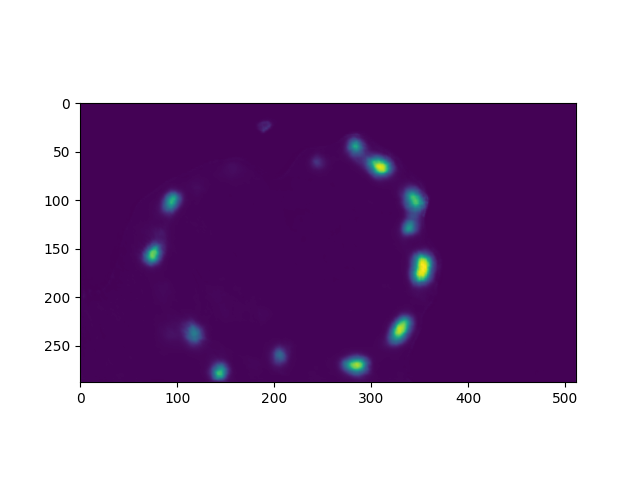
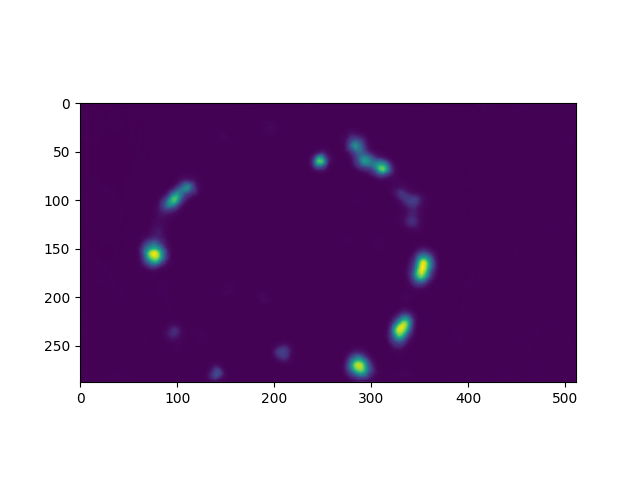
update cut method

diff --git a/predict.py b/predict.py
@@ -51,6 +51,45 @@ def OSTU(predict):
     selem = disk(radius)
     threshold_global_otsu = threshold_otsu(predict)
     image_out = predict >= threshold_global_otsu
+    # 开运算  圆形kernel
+    kernel = skimage.morphology.disk(2)
+    image_out =skimage.morphology.opening(image_out, kernel)
+    # generate centre of mass
+    label_img = measure.label(image_out, connectivity=2)
+    props = measure.regionprops(label_img)
+    # generate prediction points
+    points = []
+    for prop in props:
+        # 这里注意x，y别搞反了,输入是 288x512,第零维度是y,第一维是x，
+        point = {}
+        point["y"] = prop.centroid[0]
+        point["x"] = prop.centroid[1]
+        points.append(point)
+
+    return points
+
+
+def check_out(image_out,points_big):
+    for point_big in points_big:
+        x = int(point_big["x"])
+        y = int(point_big["y"])
+        flag = 0
+        for i in range(0,288):
+            if image_out[i,x] == True and image_out[i-1,x] == False:
+                image_out[i,x] = False
+                flag =1
+            if i<287 and image_out[i,x] == False and image_out[i+1,x]== False and flag==1:
+                break
+            elif i ==287:
+                image_out[i,x] = False
+    return image_out
+
+
+def OSTU_test(predict):
+    radius = 2
+    selem = disk(radius)
+    threshold_global_otsu = threshold_otsu(predict)
+    image_out = predict >= threshold_global_otsu
     ## 画图
     # plt.imshow(image_out)
     # plt.savefig('./pic/image_out.png')
@@ -60,6 +99,7 @@ def OSTU(predict):
     # 圆形kernel
     kernel = skimage.morphology.disk(2)
     image_out =skimage.morphology.opening(image_out, kernel)
+    # print(image_out)
     # 画图
     # plt.imshow(image_out)
     # plt.savefig('./pic/open.png')
@@ -70,21 +110,53 @@ def OSTU(predict):
     props = measure.regionprops(label_img)
     # generate prediction points
     points = []
+    areas = []
     for prop in props:
         # 这里注意x，y别搞反了,输入是 288x512,第零维度是y,第一维是x，
         point = {}
-        point["x"] = prop.centroid[1]
         point["y"] = prop.centroid[0]
+        point["x"] = prop.centroid[1]
         points.append(point)
-
+        areas.append(prop.area)
+    print("before predict number",len(points))
     # for point in points:
     #     x = int(point["x"])
     #     y = int(point["y"])
     #     image_out[y,x] = 0
     # plt.imshow(image_out)
     # plt.savefig('./pic/open_points.png')
+    # return points
 
-    return points
+    points_big = []
+    area_average = int(sum(areas)/len(areas))
+    for i in range(len(areas)):
+        if areas[i] > area_average:
+            points_big.append(points[i])
+    if len(points_big):
+        img_out = check_out(image_out,points_big)
+        # print(points_big)
+        # print("continue")
+        label_img = measure.label(img_out, connectivity=2)
+        props = measure.regionprops(label_img)
+        points = []
+        for prop in props:
+        # 这里注意x，y别搞反了,输入是 288x512,第零维度是y,第一维是x，
+            point = {}
+            point["y"] = prop.centroid[0]
+            point["x"] = prop.centroid[1]
+            points.append(point)
+        # print(len(points_big))
+        print("after predict number",len(points))
+        for point in points:
+            x = int(point["x"])
+            y = int(point["y"])
+            image_out[y,x] = 0
+        plt.imshow(image_out)
+        plt.savefig('./pic/open_points.png')
+        return points
+    else:
+        return points
+
 
 def predict(model_path, test_loader):
 
@@ -119,18 +191,19 @@ def predict(model_path, test_loader):
         plt.show()
         # print(imgs_path)
         # print(logit)
-        # points = OSTU(logit)
+        points = OSTU(logit)
+        points = OSTU_test(logit)
         # 生成json文件
         # to_json(points,img_path[0])
         # for i in range(len(imgs_path)):
         #     predict = im_convert(logits[i], False)
-        #     to_OSTU(predict,imgs_path[i])
+        #     OSTU(predict,imgs_path[i])
 
 def main():
     batch_size = 1
     num_workers = 1
     test_path = './Traindata/'
-    model_path = './model/nor_unet.pt'
+    model_path = './model/new_Unet.pt'
     test_dataset = Medical_Data(test_path, data_mode='simulator', set_mode='test')
     test_loader = torch.utils.data.DataLoader(
             dataset=test_dataset,

diff --git a/train.py b/train.py
@@ -18,19 +18,18 @@ from evaluation import evaluate
 from utils import get_device
 
 # 使用多GPU保存模型的时候记得加上.module
-gpus = [4, 5]
+gpus = [2, 3]
 torch.cuda.set_device('cuda:{}'.format(gpus[0]))
 
-train_name = 'new_DeepLabV3'
-
+train_name = 'lr_Unet'
 # hyperparameter
 default_config = dict(
     batch_size=32,
     num_epoch=200,
-    learning_rate=1e-4,          # learning rate of Adam
+    learning_rate=1e-4,            # learning rate of Adam
     weight_decay=0.01,             # weight decay 
     num_workers=5,
-    warm_up_epochs=10,
+    warm_up_epochs=5,
     model_path = './model/'+train_name+'.pt'
 )
 
@@ -69,7 +68,7 @@ def pre_data(batch_size, num_workers):
 def train(train_loader, val_loader, learning_rate, weight_decay, num_epoch, model_path):
 
     # model 
-    model = my_unet(modelname='DeepLabV3')
+    model = my_unet(modelname='Unet')
     model = model.to(device)
     model.device = device
 
@@ -81,8 +80,8 @@ def train(train_loader, val_loader, learning_rate, weight_decay, num_epoch, mode
     optimizer = torch.optim.AdamW(model.parameters(), lr = learning_rate, weight_decay=weight_decay)
 
     # warm_up_with_cosine_lr
-    # warm_up_with_cosine_lr = lambda epoch: epoch / config['warm_up_epochs'] if epoch <= config['warm_up_epochs'] else 0.5 * ( math.cos((epoch - config['warm_up_epochs']) /(num_epoch - config['warm_up_epochs']) * math.pi) + 1)
-    # scheduler = torch.optim.lr_scheduler.LambdaLR( optimizer, lr_lambda=warm_up_with_cosine_lr)
+    warm_up_with_cosine_lr = lambda epoch: epoch / config['warm_up_epochs'] if epoch <= config['warm_up_epochs'] else 0.5 * ( math.cos((epoch - config['warm_up_epochs']) /(num_epoch - config['warm_up_epochs']) * math.pi) + 1)
+    scheduler = torch.optim.lr_scheduler.LambdaLR( optimizer, lr_lambda=warm_up_with_cosine_lr)
 
     best_loss = float('inf')
 
@@ -152,8 +151,8 @@ def train(train_loader, val_loader, learning_rate, weight_decay, num_epoch, mode
         # dice = check_accuracy(val_loader, model)
 
         # learning rate decay and print 
-        # scheduler.step()
-        realLearningRate = learning_rate
+        scheduler.step()
+        realLearningRate = scheduler.get_last_lr()[0]
         # wandb
         wandb.log({'epoch': epoch + 1, 'train_loss': train_loss, 'val_loss': valid_loss, 'precision': precision, 'f1_score': f1_score, 'sensitivity': sensitivity, 'LearningRate':realLearningRate})
 

diff --git a/evaluation.py b/evaluation.py
@@ -9,7 +9,7 @@ from pathlib import Path
 from skimage import measure, draw, data, util
 from skimage.filters import threshold_otsu, threshold_local,threshold_minimum,threshold_mean,rank
 from skimage.morphology import disk
-from predict import OSTU
+from predict import OSTU, OSTU_test
 from utils import im_convert
 
 from PIL import Image
@@ -70,10 +70,7 @@ def evaluater(logits, labels_path):
     false_negative_a_batch = 0
     for i in range(len(labels_path)):
         predict = im_convert(logits[i], False)
-        predictions = OSTU(predict)
-        print("predict numbers")
-        print(len(predictions))
-        print(predictions)
+        predictions = OSTU_test(predict)
         true_positive, false_positive, false_negative = compute(predictions, labels_path[i], 6)
         true_positive_a_batch += true_positive
         false_positive_a_batch += false_positive
@@ -89,12 +86,16 @@ if __name__=='__main__':
     test_loader = torch.utils.data.DataLoader(
             dataset=test_dataset,
             batch_size=batch_size, 
-            shuffle=False
+            shuffle=True
         )
     dataiter = iter(test_loader)
     image, label, label_path = dataiter.next()
     print(label_path[0])
     l_path = []
     l_path.append(label_path[0])
+    print("before cut")
+    true_positive_a_batch, false_positive_a_batch, false_negative_a_batch = evaluate(label, l_path)
+    print("true_positive_a_batch:",true_positive_a_batch, "false_positive_a_batch:",false_positive_a_batch, "false_negative_a_batch",false_negative_a_batch)
+    print("after cut")
     evaluater(label, l_path)
 

diff --git a/dataprocess.py b/dataprocess.py
@@ -108,7 +108,7 @@ class Medical_Data(Dataset):
         elif set_mode == 'valid':
             self.imgs_path = self.imgs_path[self.train_len:]
         elif set_mode == 'test':
-            self.imgs_path = self.imgs_path[-100:]
+            self.imgs_path = self.imgs_path[-20:]
 
         print('Finished reading the {}_{} set of medical dataset ({} samples found)'
             .format(data_mode, set_mode, len(self.imgs_path)))

diff --git a/utils.py b/utils.py
@@ -16,11 +16,6 @@ def im_convert(tensor, ifimg):
         image = image.transpose(1,2,0)
     return image
 
-
-
-
-
-
 def check_accuracy(loader, model, device="cuda"):
     num_correct = 0
     num_pixels = 0
